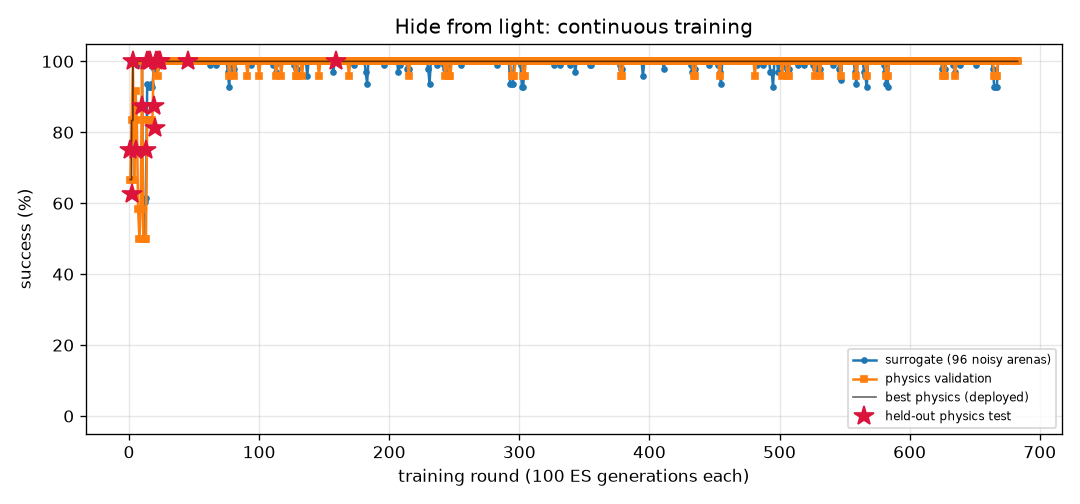
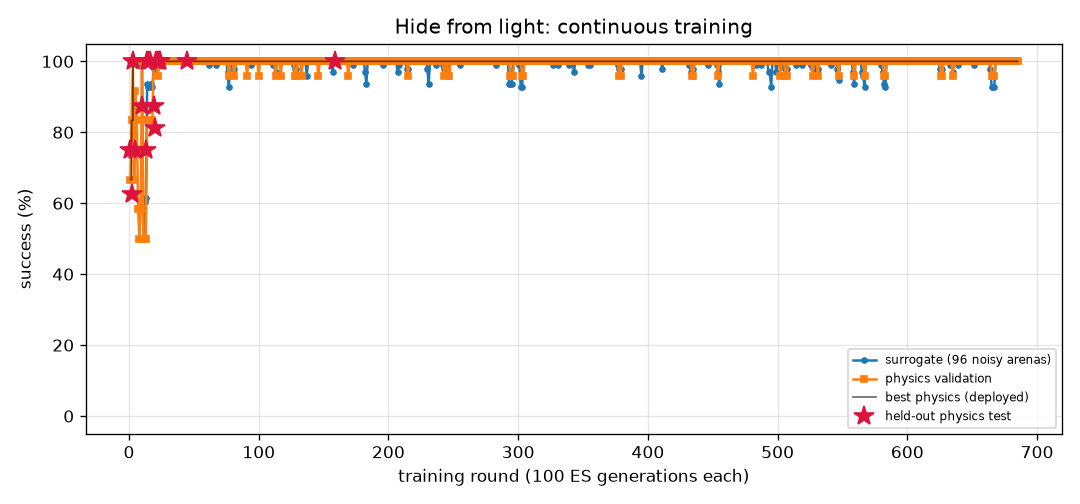
FlyLab: continuous training progress
- walk_forward: optimal, physics val 100% of 24, round 411
- turn: optimal, physics val 100% of 24, round 1114
- goto: optimal, physics val 100% of 24, round 317
- odor_seek: optimal, physics val 100% of 24, round 257
- odor_avoid: optimal, physics val 100% of 24, round 967
- light_seek: optimal, physics val 100% of 24, round 519
- light_avoid: optimal, physics val 100% of 24, round 685

diff --git a/projects/09_flylab/training/light_avoid/REPORT.md b/projects/09_flylab/training/light_avoid/REPORT.md
@@ -1,14 +1,14 @@
 # Hide from light (`light_avoid`) — training report
 
-*Auto-generated by `train_brains.py`, last updated 2026-11-18T02:02:31.*
+*Auto-generated by `train_brains.py`, last updated 2026-11-18T02:52:58.*
 
 ![curve](curve.png)
 
 | | |
 |---|---|
-| rounds | 683 |
-| ES generations | 68300 |
-| physics runs | 16664 |
+| rounds | 685 |
+| ES generations | 68500 |
+| physics runs | 16712 |
 | status | **optimal** |
 | best brain | round 159: physics validation **100%** on 24 arenas, surrogate 100% |
 | held-out physics test | **100%** on 32 unseen arenas (95% CI 89%-100%) (errors: [14.4, 56.1, 58.0, 57.9, 57.5, 14.0, 14.4, 56.6, 56.8, 13.3, 14.1, 56.6, 57.6, 13.1, 57.3, 55.9, 57.2, 55.0, 55.2, 53.9, 55.2, 12.4, 53.8, 53.7, 14.1, 13.7, 55.0, 57.8, 56.2, 13.1, 52.8, 56.5]) |
@@ -17,8 +17,6 @@ Physics error per arena: mm gained away from source (> 6 without first approachi
 
 | round | level | gens | sigma | surrogate | physics val | val errors | test | note |
 |---:|---:|---:|---:|---:|---:|---|---:|---|
-| 644 | 3 | 64400 | 0.024 | 100% | 100% | [47.5, 49.4, 49.4, 47.4, 46.0, 47.2, 49.2, 14.5, 44.7, 13.1, 47.9, 45.8, 14.4, 49.7, 49.5, 47.4, 14.2, 47.4, 49.3, 14.4, 46.6, 48.0, 48.8, 44.8] |  |  |
-| 645 | 3 | 64500 | 0.024 | 100% | 100% | [34.8, 35.7, 35.3, 33.5, 31.3, 34.0, 36.4, 14.5, 32.8, 13.4, 34.8, 31.3, 14.4, 37.3, 35.0, 34.0, 14.2, 31.3, 35.0, 14.4, 32.1, 35.5, 35.9, 32.1] |  |  |
 | 646 | 3 | 64600 | 0.024 | 100% | 100% | [40.6, 40.4, 40.1, 40.7, 44.4, 39.5, 37.5, 14.5, 37.2, 13.5, 39.2, 44.4, 14.4, 39.0, 39.0, 40.5, 14.2, 41.8, 40.8, 14.4, 41.0, 38.3, 37.0, 42.5] |  |  |
 | 647 | 3 | 64700 | 0.024 | 100% | 100% | [52.8, 55.6, 55.6, 53.0, 53.2, 53.4, 55.0, 14.5, 50.5, 13.5, 53.4, 52.9, 14.4, 55.1, 55.7, 52.5, 14.2, 54.0, 55.9, 14.4, 51.7, 53.4, 54.6, 52.2] |  | restart from best |
 | 648 | 3 | 64800 | 0.024 | 100% | 100% | [54.8, 59.0, 58.8, 55.3, 59.1, 55.6, 57.3, 14.5, 52.5, 13.4, 56.8, 59.0, 14.4, 57.4, 58.8, 54.1, 14.2, 59.6, 59.3, 14.4, 50.9, 56.9, 57.2, 58.6] |  |  |
@@ -57,3 +55,5 @@ Physics error per arena: mm gained away from source (> 6 without first approachi
 | 681 | 3 | 68100 | 0.024 | 100% | 100% | [37.3, 37.6, 36.5, 38.8, 40.8, 38.0, 34.8, 14.5, 35.7, 13.4, 39.8, 41.3, 14.4, 39.0, 36.9, 39.0, 14.2, 40.1, 38.8, 14.4, 40.3, 39.5, 34.3, 41.6] |  |  |
 | 682 | 3 | 68200 | 0.024 | 100% | 100% | [49.4, 51.6, 50.9, 50.8, 54.6, 50.5, 48.4, 14.5, 45.9, 13.6, 52.4, 54.5, 14.4, 53.7, 51.1, 50.5, 14.2, 54.1, 51.4, 14.4, 47.6, 52.2, 48.7, 54.7] |  |  |
 | 683 | 3 | 68300 | 0.024 | 100% | 100% | [56.2, 60.1, 60.1, 57.2, 57.1, 57.0, 59.6, 14.5, 55.2, 13.1, 58.9, 57.1, 14.4, 55.3, 60.2, 57.8, 14.2, 58.3, 60.2, 14.4, 57.6, 59.0, 59.4, 56.2] |  | restart from best |
+| 684 | 3 | 68400 | 0.024 | 100% | 100% | [47.5, 49.2, 48.7, 48.6, 52.5, 48.5, 46.6, 14.5, 49.4, 13.3, 51.5, 52.4, 14.4, 51.4, 49.3, 48.8, 14.2, 52.3, 49.7, 14.4, 47.7, 51.3, 47.6, 52.3] |  |  |
+| 685 | 3 | 68500 | 0.024 | 100% | 100% | [43.9, 44.1, 43.6, 43.5, 44.8, 44.1, 41.4, 14.5, 37.1, 13.3, 43.6, 45.0, 14.4, 44.3, 43.4, 44.2, 14.2, 44.8, 44.8, 14.4, 44.6, 43.5, 40.9, 44.9] |  |  |

diff --git a/projects/09_flylab/training/odor_avoid/REPORT.md b/projects/09_flylab/training/odor_avoid/REPORT.md
@@ -1,14 +1,14 @@
 # Escape a bad smell (`odor_avoid`) — training report
 
-*Auto-generated by `train_brains.py`, last updated 2026-11-18T02:02:24.*
+*Auto-generated by `train_brains.py`, last updated 2026-11-18T02:22:47.*
 
 ![curve](curve.png)
 
 | | |
 |---|---|
-| rounds | 966 |
-| ES generations | 96600 |
-| physics runs | 20490 |
+| rounds | 967 |
+| ES generations | 96700 |
+| physics runs | 20514 |
 | status | **optimal** |
 | best brain | round 373: physics validation **100%** on 24 arenas, surrogate 97% |
 | held-out physics test | **97%** on 32 unseen arenas (95% CI 84%-99%) (errors: [62.0, 57.4, 62.6, 61.9, 59.0, 61.6, 56.5, 60.7, 31.7, 60.9, 63.1, 57.1, 61.1, 62.1, 61.5, 60.2, 62.2, 55.2, 62.1, 54.2, 61.3, 62.0, 58.0, 61.9, 59.8, 56.5, 56.3, 56.4, 56.3, 57.7, 61.9, 32.4]) |
@@ -17,7 +17,6 @@ Physics error per arena: mm gained away from source (> 6 without first approachi
 
 | round | level | gens | sigma | surrogate | physics val | val errors | test | note |
 |---:|---:|---:|---:|---:|---:|---|---:|---|
-| 927 | 3 | 92700 | 0.026 | 94% | 100% | [61.5, 58.9, 56.6, 60.8, 60.5, 61.8, 61.6, 39.5, 61.9, 48.9, 58.9, 61.1, 51.8, 55.3, 46.6, 61.9, 61.8, 60.0, 54.6, 56.8, 61.2, 61.6, 59.4, 62.2] |  |  |
 | 928 | 3 | 92800 | 0.028 | 97% | 96% | [59.6, 55.6, 56.5, 58.8, 60.9, 61.1, 60.5, 54.3, 61.0, 43.8, 59.6, 61.0, 53.7, 57.6, 44.0, 60.1, 61.4, 59.6, 54.5, 55.0, 60.9, 42.9, 59.3, 50.1] |  |  |
 | 929 | 3 | 92900 | 0.026 | 95% | 100% | [60.4, 53.7, 56.4, 53.8, 61.3, 60.2, 58.5, 46.7, 59.2, 43.3, 60.7, 61.2, 53.7, 56.5, 50.8, 60.4, 61.7, 60.2, 54.1, 52.7, 61.5, 60.0, 58.1, 54.7] |  | restart from best |
 | 930 | 3 | 93000 | 0.026 | 95% | 96% | [63.0, 60.8, 56.7, 57.7, 60.4, 61.5, 61.7, 56.8, 60.7, 55.6, 60.3, 61.3, 53.3, 57.5, 38.0, 62.2, 61.7, 61.9, 54.9, 57.1, 61.7, 44.9, 55.8, 61.9] |  |  |
@@ -57,3 +56,4 @@ Physics error per arena: mm gained away from source (> 6 without first approachi
 | 964 | 3 | 96400 | 0.028 | 95% | 92% | [60.0, 58.6, 56.1, 59.5, 61.3, 61.9, 61.1, 61.9, 61.2, 61.2, 56.5, 60.9, 49.0, 52.8, 36.0, 60.8, 60.8, 60.0, 51.0, 57.8, 60.9, 61.8, 56.2, 62.0] |  |  |
 | 965 | 3 | 96500 | 0.027 | 96% | 100% | [57.4, 50.0, 53.5, 53.8, 55.3, 55.6, 53.2, 45.2, 53.5, 54.2, 53.8, 57.3, 47.6, 52.8, 28.2, 53.9, 57.4, 55.0, 49.5, 50.0, 57.0, 52.6, 54.1, 53.5] |  | restart from best |
 | 966 | 3 | 96600 | 0.026 | 96% | 100% | [63.0, 60.9, 57.8, 58.8, 60.4, 59.4, 61.8, 18.9, 60.6, 52.6, 38.0, 60.1, 51.9, 55.6, 38.5, 61.4, 60.5, 59.0, 52.2, 55.4, 59.8, 37.5, 58.6, 60.4] |  |  |
+| 967 | 3 | 96700 | 0.026 | 94% | 96% | [63.1, 56.0, 55.6, 61.5, 61.7, 62.4, 60.8, 61.0, 60.1, 60.9, 60.5, 61.4, 52.8, 54.4, 37.0, 61.9, 62.0, 62.3, 55.1, 55.7, 61.6, 62.0, 61.5, 62.8] |  |  |

diff --git a/projects/09_flylab/training/light_seek/REPORT.md b/projects/09_flylab/training/light_seek/REPORT.md
@@ -1,14 +1,14 @@
 # Walk toward light (`light_seek`) — training report
 
-*Auto-generated by `train_brains.py`, last updated 2026-11-17T23:16:41.*
+*Auto-generated by `train_brains.py`, last updated 2026-11-18T03:11:58.*
 
 ![curve](curve.png)
 
 | | |
 |---|---|
-| rounds | 518 |
-| ES generations | 51800 |
-| physics runs | 9312 |
+| rounds | 519 |
+| ES generations | 51900 |
+| physics runs | 9336 |
 | status | **optimal** |
 | best brain | round 375: physics validation **100%** on 24 arenas, surrogate 100% |
 | held-out physics test | **100%** on 32 unseen arenas (95% CI 89%-100%) (errors: [0.57, 0.54, 0.53, 0.57, 0.55, 0.56, 0.59, 0.56, 0.53, 0.56, 0.71, 0.56, 0.55, 0.54, 0.53, 0.54, 0.54, 0.55, 0.52, 0.65, 0.64, 0.7, 0.58, 0.57, 0.6, 0.62, 0.55, 0.88, 0.54, 0.52, 0.62, 0.57]) |
@@ -17,7 +17,6 @@ Physics error per arena: mm from target at the end (< 1.5 and standing still = s
 
 | round | level | gens | sigma | surrogate | physics val | val errors | test | note |
 |---:|---:|---:|---:|---:|---:|---|---:|---|
-| 479 | 3 | 47900 | 0.024 | 100% | 100% | [0.61, 0.47, 0.47, 0.63, 0.53, 0.45, 0.46, 0.45, 0.45, 0.52, 0.46, 0.63, 0.46, 0.45, 0.96, 0.51, 0.55, 0.53, 0.45, 0.6, 0.58, 0.56, 0.59, 0.45] |  | restart from best |
 | 480 | 3 | 48000 | 0.024 | 100% | 100% | [0.89, 0.64, 0.49, 0.48, 0.51, 0.5, 0.6, 0.61, 0.49, 0.58, 0.51, 0.55, 0.55, 0.58, 0.47, 0.53, 0.48, 0.5, 0.46, 0.49, 0.54, 0.58, 0.54, 0.6] |  |  |
 | 481 | 3 | 48100 | 0.024 | 100% | 100% | [0.58, 0.57, 0.49, 0.55, 0.57, 0.75, 0.62, 0.59, 0.56, 0.52, 0.56, 0.71, 0.49, 0.56, 0.63, 0.63, 0.62, 0.66, 0.62, 0.58, 0.59, 0.61, 0.61, 0.57] |  |  |
 | 482 | 3 | 48200 | 0.024 | 100% | 100% | [0.58, 0.92, 0.52, 0.64, 0.87, 0.52, 0.56, 0.62, 0.94, 0.55, 0.58, 0.74, 0.64, 0.53, 0.5, 0.59, 0.78, 0.64, 0.89, 0.58, 0.56, 0.55, 0.55, 0.55] |  |  |
@@ -57,3 +56,4 @@ Physics error per arena: mm from target at the end (< 1.5 and standing still = s
 | 516 | 3 | 51600 | 0.024 | 100% | 100% | [0.56, 0.52, 0.48, 1.14, 0.56, 0.51, 0.55, 0.52, 1.02, 0.57, 0.89, 0.51, 0.58, 0.49, 0.58, 0.58, 0.5, 0.54, 0.5, 0.97, 0.59, 0.66, 0.49, 0.57] |  |  |
 | 517 | 3 | 51700 | 0.024 | 100% | 100% | [1.05, 0.54, 0.53, 1.02, 0.63, 0.58, 0.56, 0.54, 0.63, 0.53, 0.61, 0.67, 0.55, 0.57, 1.12, 0.53, 0.52, 0.59, 0.59, 0.53, 0.59, 0.59, 0.58, 0.62] |  |  |
 | 518 | 3 | 51800 | 0.024 | 100% | 100% | [0.5, 0.57, 0.68, 0.54, 0.5, 0.53, 0.52, 0.59, 0.67, 0.5, 0.5, 0.52, 0.5, 0.55, 0.6, 0.5, 0.53, 0.52, 0.51, 0.5, 0.52, 0.61, 0.55, 0.55] |  |  |
+| 519 | 3 | 51900 | 0.024 | 100% | 100% | [0.65, 0.56, 0.63, 0.62, 0.56, 0.58, 0.56, 0.62, 0.69, 0.57, 0.5, 0.55, 0.56, 0.5, 0.76, 0.49, 0.55, 0.66, 0.53, 0.52, 0.62, 0.95, 0.58, 0.6] |  | restart from best |

diff --git a/projects/09_flylab/training/TRAINING.md b/projects/09_flylab/training/TRAINING.md
@@ -1,6 +1,6 @@
 # FlyLab brains — continuous training log
 
-*Auto-generated by `train_brains.py`, last updated 2026-11-18T02:02:31.*
+*Auto-generated by `train_brains.py`, last updated 2026-11-18T03:11:58.*
 
 Every skill has its own brain and its own training process: surrogate ES rounds, physics validation in MuJoCo, keep-the-best selection, and a held-out physics test that is never used for selection. See each skill's report for its full round-by-round history. Mastery is progressive: passing a level (100% physics validation, >=95% surrogate) doubles the validation and test arena sets; a brain is **optimal** once it holds up at level 3 (>=95% of 24 validation arenas) AND scores >=90% on the 32 held-out test arenas. Test columns show 95% Wilson confidence intervals.
 
@@ -10,6 +10,6 @@ Every skill has its own brain and its own training process: surrogate ES rounds,
 | [Turn in place](turn/REPORT.md) | 1114 | 111400 | 26982 | 100% | 100% of 24 | 97% of 32 (CI 84-99%) | **optimal** |
 | [Go to a location](goto/REPORT.md) | 317 | 31700 | 7558 | 100% | 100% of 24 | 100% of 32 (CI 89-100%) | **optimal** |
 | [Find food by smell](odor_seek/REPORT.md) | 257 | 25700 | 5662 | 100% | 100% of 24 | 100% of 32 (CI 89-100%) | **optimal** |
-| [Escape a bad smell](odor_avoid/REPORT.md) | 966 | 96600 | 20490 | 97% | 100% of 24 | 97% of 32 (CI 84-99%) | **optimal** |
-| [Walk toward light](light_seek/REPORT.md) | 518 | 51800 | 9312 | 100% | 100% of 24 | 100% of 32 (CI 89-100%) | **optimal** |
-| [Hide from light](light_avoid/REPORT.md) | 683 | 68300 | 16664 | 100% | 100% of 24 | 100% of 32 (CI 89-100%) | **optimal** |
+| [Escape a bad smell](odor_avoid/REPORT.md) | 967 | 96700 | 20514 | 97% | 100% of 24 | 97% of 32 (CI 84-99%) | **optimal** |
+| [Walk toward light](light_seek/REPORT.md) | 519 | 51900 | 9336 | 100% | 100% of 24 | 100% of 32 (CI 89-100%) | **optimal** |
+| [Hide from light](light_avoid/REPORT.md) | 685 | 68500 | 16712 | 100% | 100% of 24 | 100% of 32 (CI 89-100%) | **optimal** |
